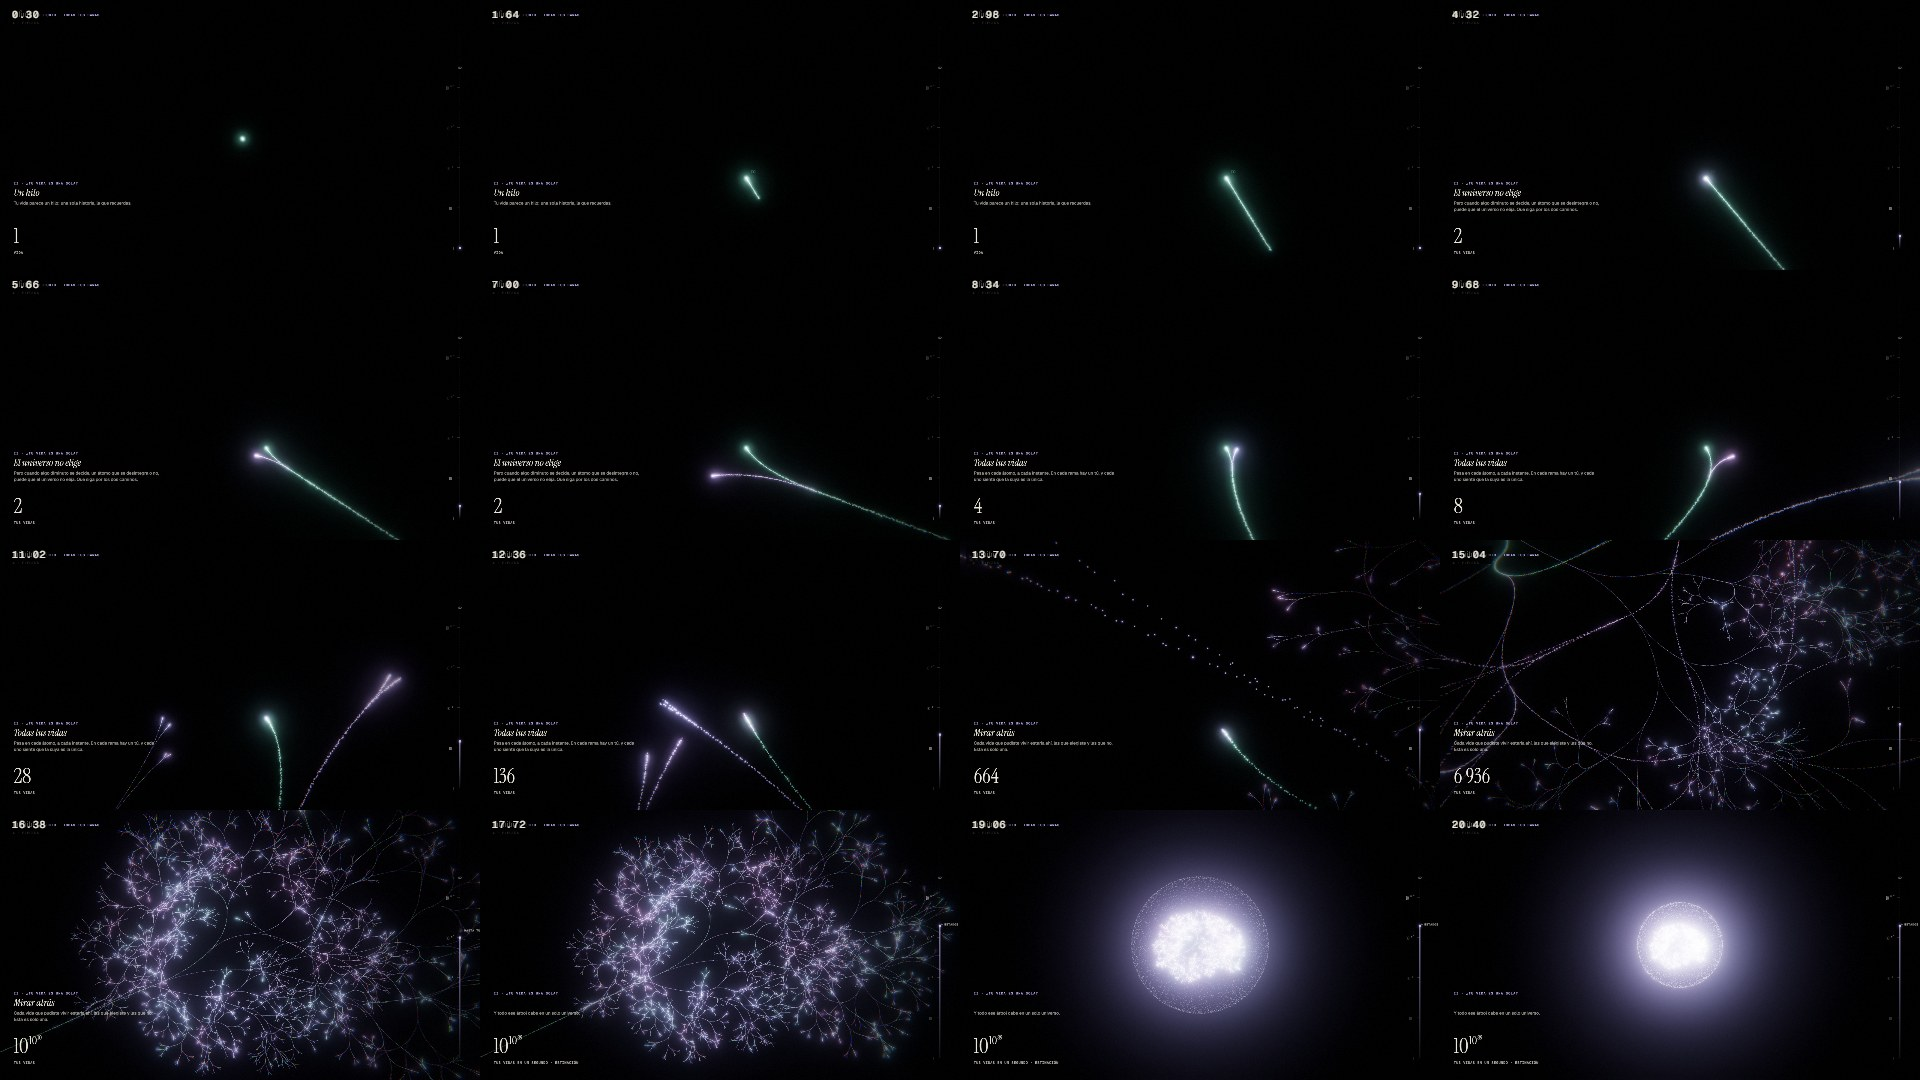
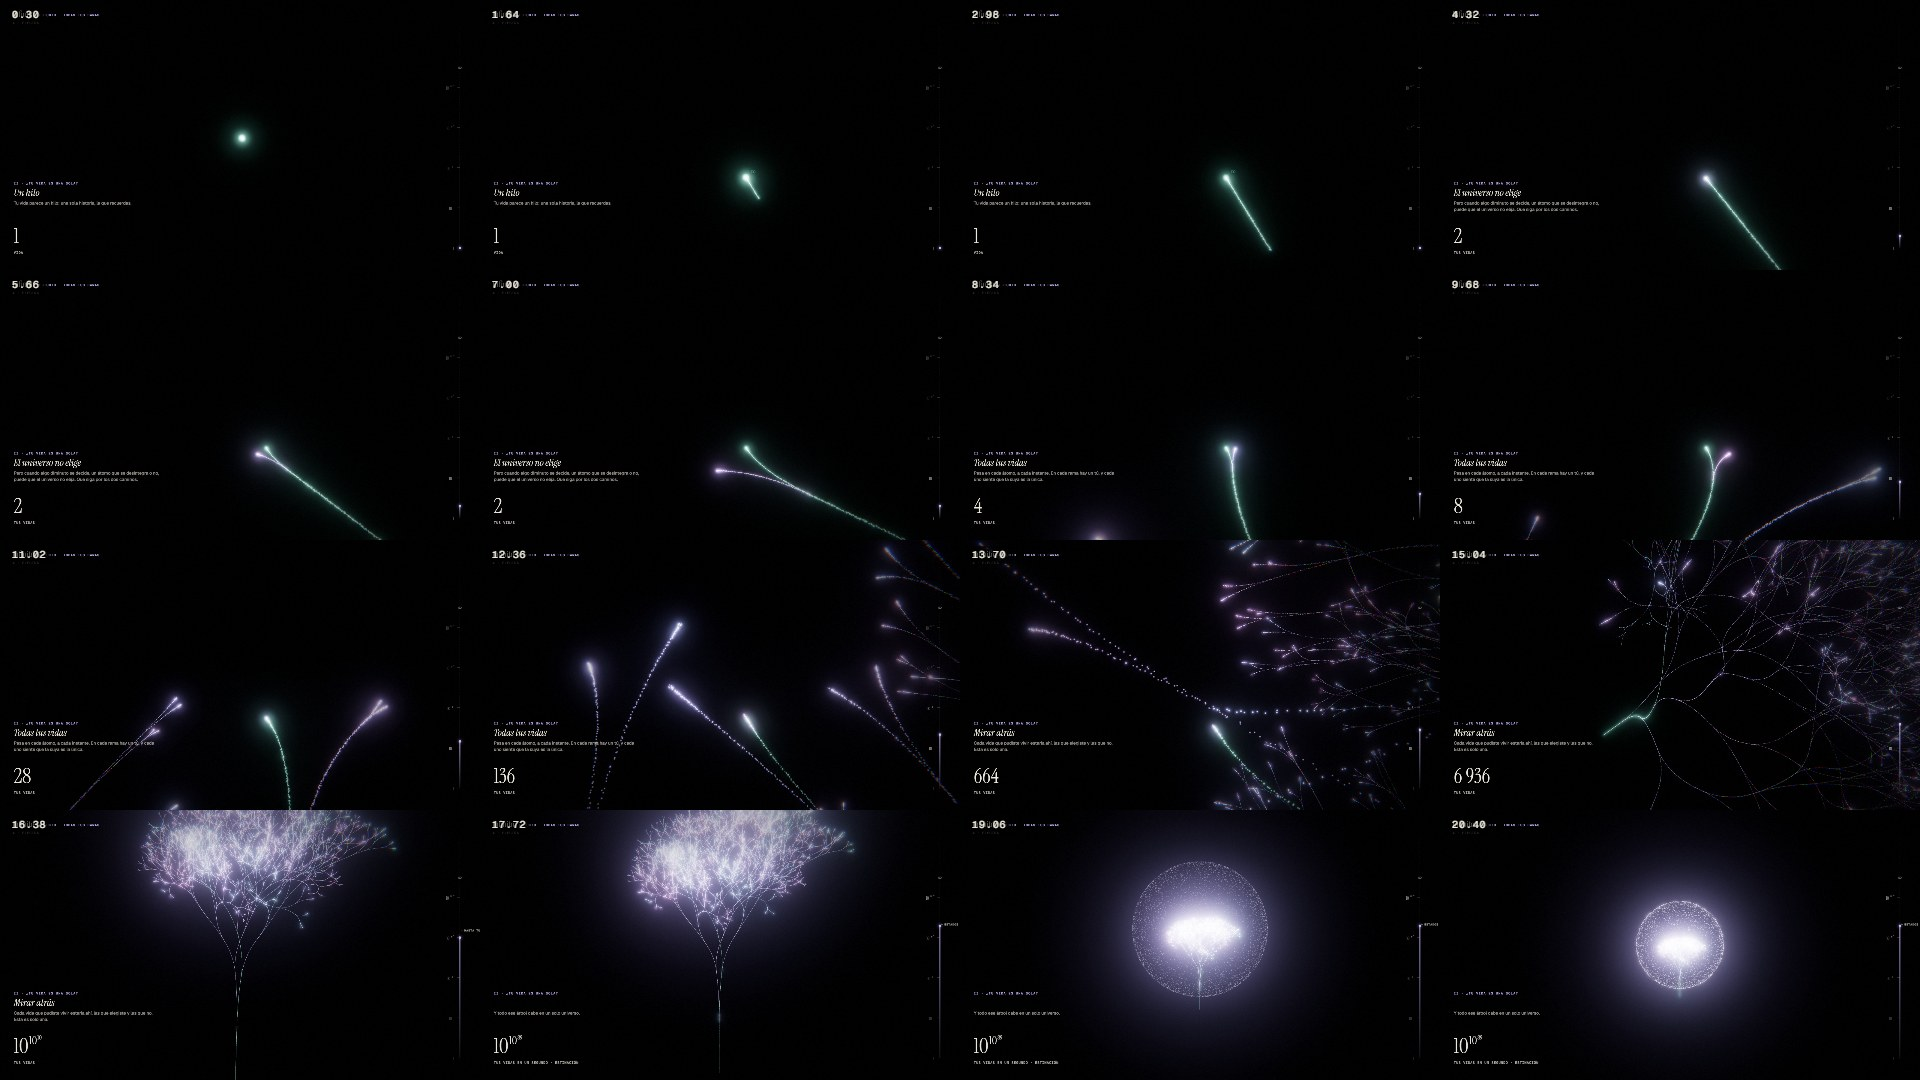
feat(act-2): stand the tree of your lives upright when you look back
The root, where your life began, at the bottom and the crown above; a little upward pull opens the crown instead of curling it back.

diff --git a/estudios/ramas.ts b/estudios/ramas.ts
@@ -41,7 +41,7 @@ const bez = (r: Rama, s: number, out = V()) => {
 };
 
 /** A branching tree: every branch splits in two, turning ±`ang` about a random axis; lengths shrink by `k`. */
-function arbol(seed: number, G: number, ang: number, k: number, L0 = 1) {
+function arbol(seed: number, G: number, ang: number, k: number, L0 = 1, sube = 0) {
   const b = materiaBuilder(seed);
   const r = b.r;
   const ramas: Rama[] = [];
@@ -75,13 +75,13 @@ function arbol(seed: number, G: number, ang: number, k: number, L0 = 1) {
     const axis = V(r() - 0.5, r() - 0.5, r() - 0.5).cross(d).normalize();
     const pick = tuPick[gen + 1];
     for (const sgn of [-1, 1]) {
-      const nd = d.clone().applyAxisAngle(axis, sgn * ang * (0.8 + 0.4 * r())).normalize();
+      const nd = d.clone().applyAxisAngle(axis, sgn * ang * (0.8 + 0.4 * r())).addScaledVector(d0, sube).normalize();
       const child = sgn === -1 ? 0 : 1;
       grow(end.clone(), d, nd, t0 + L, gen + 1, tu && child === pick, hue + (r() - 0.5) * 0.07);
     }
   };
   const d0 = V(0, 0, -1);
-  grow(V(0, 0, 0), d0, d0, 0, 0, true, 0.73);
+  grow(V(0, 0, 0), d0.clone(), d0.clone(), 0, 0, true, 0.73);
   const data = b.data();
   const tu = new Float32Array(data.aKind.length);
   for (const [a, z] of tuIdx) tu.fill(1, a, z);
@@ -90,7 +90,9 @@ function arbol(seed: number, G: number, ang: number, k: number, L0 = 1) {
   const fin = Math.max(...ramas.map((x) => x.t1));
   const centro = ramas.reduce((c, x) => c.add(x.b), V()).multiplyScalar(1 / ramas.length);
   const radio = Math.max(...ramas.map((x) => x.b.distanceTo(centro)));
-  return { data, tu, ramas, splits, camino, fin, centro, radio };
+  const zmin = Math.min(...ramas.map((x) => x.b.z));
+  const ancho = 2 * Math.max(...ramas.map((x) => Math.hypot(x.b.x - centro.x, x.b.y - centro.y)));
+  return { data, tu, ramas, splits, camino, fin, centro, radio, zmin, ancho };
 }
 
 const ARBOL_PRE = /* glsl */ `
@@ -216,7 +218,7 @@ export const ramas: Escena = {
     let listo: Promise<unknown> = Promise.resolve();
 
     if (estilo !== 2) {
-      tree = curvo ? arbol(31, 12, 0.62, 0.79, ride ? 0.8 : 0.5) : arbol(1957, 12, 0.34, 0.8);
+      tree = curvo ? arbol(31, 12, 0.62, 0.79, ride ? 0.8 : 0.5, estilo === 3 ? 0.22 : 0) : arbol(1957, 12, 0.34, 0.8);
       nube = materia(tree.data, {
         pre: ARBOL_PRE,
         move: ARBOL_MOVE,
@@ -342,7 +344,7 @@ export const ramas: Escena = {
         camera.fov = ride ? lerp(58, 44, ease(0, 1, out)) : 44;
         if (estilo !== 2 && nube && tree) {
           nube.u.uT.value = t;
-          nube.u.uViejo.value = lerp(0.42, 0.75, out);
+          nube.u.uViejo.value = lerp(0.42, ride ? 0.55 : 0.75, out);
           if (ride) {
             // Riding the tip, a little behind and above; the offsets shrink with the branch.
             const L = tip(t, tmpP, tmpD);
@@ -355,14 +357,20 @@ export const ramas: Escena = {
             const o = ease(0, 1, out);
             const centro = estilo === 0 ? V(0, 0, -2.2) : tree.centro.clone();
             const a = 0.6 + f.time * 0.02;
-            const lejos = estilo === 0 ? V(Math.sin(a) * 5.2, 2.4, -4.5) : V(Math.sin(a), 0.42, Math.cos(a)).normalize().multiplyScalar(tree.radio * 1.55);
-            const fuera = tmpP.clone().add(V(Math.sin(a) * 1.4, 0.7, -1.8)).lerp(centro.clone().add(lejos), ease(0.4, 1, out));
+            const lado = V(Math.cos(0.4 + a * 0.5), Math.sin(0.4 + a * 0.5), 0);
+            const th = Math.tan(THREE.MathUtils.degToRad(22));
+            const alto = -tree.zmin;
+            const objetivo = V(tree.centro.x, tree.centro.y, tree.zmin * 0.53);
+            const dist = Math.max(alto / (2 * th), tree.ancho / (2 * th * camera.aspect)) * 1.32;
+            const fuera = tmpP.clone().add(V(Math.sin(a) * 1.4, 0.7, -1.8)).lerp(objetivo.clone().addScaledVector(lado, dist), ease(0.4, 1, out));
             const pos = ride.lerp(fuera, o);
             const lj = ease(0, 1, tl.get('lejos', f.p));
             // Far off, the tree is a ball of light: dimmer, so it does not burn white.
-            nube.u.uGain.value = 1 - 0.55 * lj;
-            if (lj > 0) pos.lerp(centro.clone().add(lejos.clone().multiplyScalar(5.5)), lj);
-            mirar(camera, pos, look.lerp(centro, ease(0, 0.8, out)), up.lerp(V(0, 1, 0), o).normalize());
+            nube.u.uGain.value = lerp(1, 0.62, o) * (1 - 0.4 * lj);
+            if (lj > 0) pos.lerp(centro.clone().addScaledVector(lado, tree.radio * 1.08 * 7.7), lj);
+            const mira = look.lerp(objetivo, ease(0, 0.8, out)).lerp(centro, lj);
+            mirar(camera, pos, mira, up.lerp(V(0, 0, -1), o).normalize());
+            void centro;
             if (yo) {
               yo.points.position.copy(tmpP);
               yo.u.uGain.value = (1 + 0.22 * Math.sin(f.time * 1.5)) * (1 - ease(tl.at('uno') + 1.5, tl.at('elige') + 0.5, f.p));
